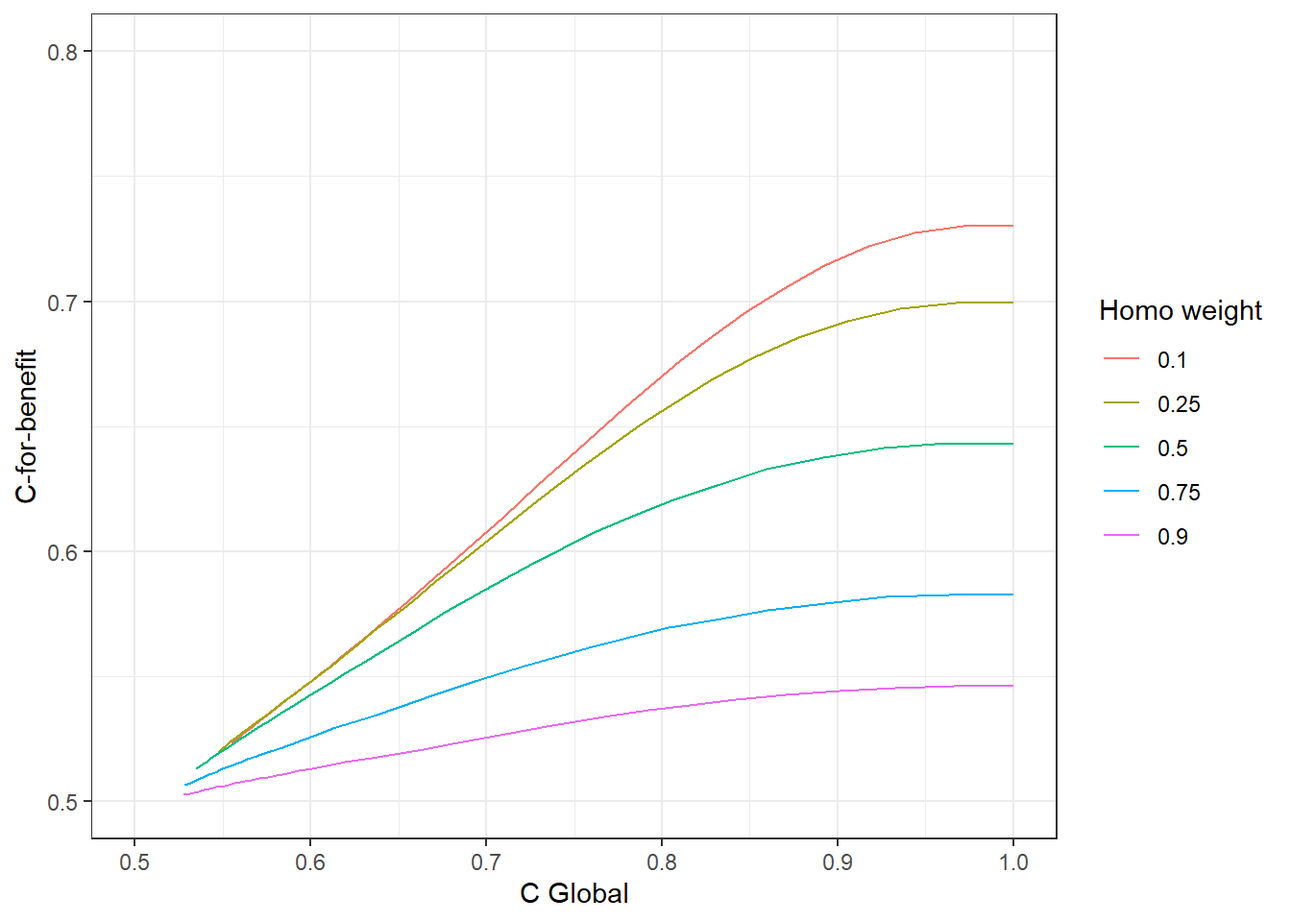
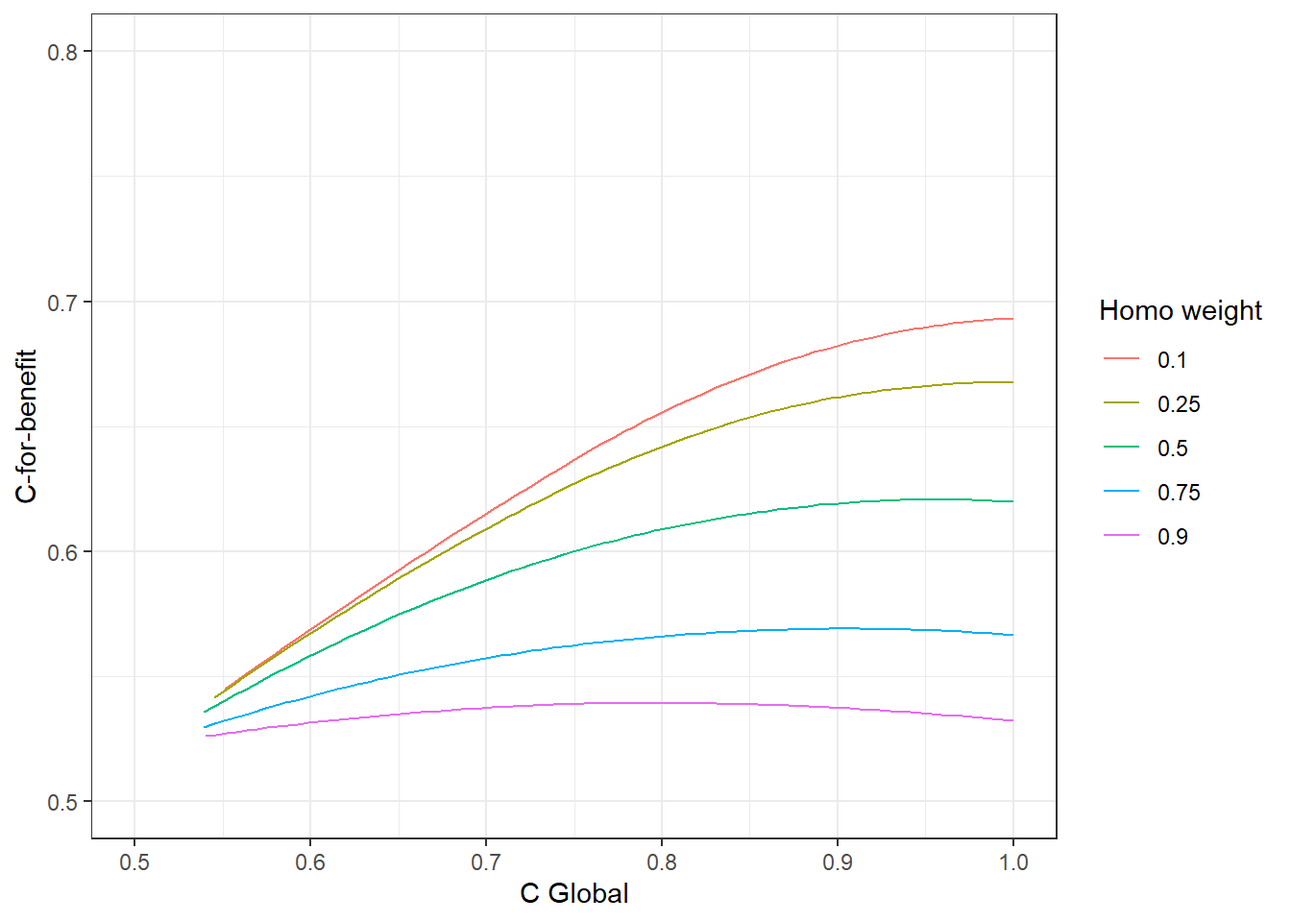
tweaks

diff --git a/_site/c4bsimulation.html b/_site/c4bsimulation.html
@@ -416,8 +416,8 @@ pre > code.sourceCode > span > a:first-child::before { text-decoration: underlin
     <h2 id="toc-title">On this page</h2>
    
   <ul>
-  <li><a href="#linear-model" id="toc-linear-model" class="nav-link active" data-scroll-target="#linear-model">Linear Model</a></li>
-  <li><a href="#logistic" id="toc-logistic" class="nav-link" data-scroll-target="#logistic">Logistic</a></li>
+  <li><a href="#linear-model" id="toc-linear-model" class="nav-link active" data-scroll-target="#linear-model"><em>Linear Model</em></a></li>
+  <li><a href="#logistic" id="toc-logistic" class="nav-link" data-scroll-target="#logistic"><em>Logistic</em></a></li>
   </ul>
 </nav>
     </div>
@@ -444,7 +444,7 @@ pre > code.sourceCode > span > a:first-child::before { text-decoration: underlin
 </header>
 
 
-<p>The question has arisen to what is the association between global C and</p>
+<p><em>The question has arisen to what is the association between global C and c4b. In this we simulate data both as a linear model and a logistic model and progressively add more noise until we get the desired properties</em></p>
 <div class="cell">
 <div class="code-copy-outer-scaffold"><div class="sourceCode cell-code" id="cb1"><pre class="sourceCode r code-with-copy"><code class="sourceCode r"><span id="cb1-1"><a href="#cb1-1" aria-hidden="true" tabindex="-1"></a><span class="fu">library</span>(tidyverse)</span>
 <span id="cb1-2"><a href="#cb1-2" aria-hidden="true" tabindex="-1"></a><span class="fu">library</span>(survival)</span>
@@ -482,51 +482,56 @@ pre > code.sourceCode > span > a:first-child::before { text-decoration: underlin
 <span id="cb2-7"><a href="#cb2-7" aria-hidden="true" tabindex="-1"></a>c_benefit_log<span class="ot">=</span><span class="fu">c</span>()</span>
 <span id="cb2-8"><a href="#cb2-8" aria-hidden="true" tabindex="-1"></a>error2<span class="ot">=</span><span class="fu">c</span>()</span>
 <span id="cb2-9"><a href="#cb2-9" aria-hidden="true" tabindex="-1"></a>weight2<span class="ot">=</span><span class="fu">c</span>()</span>
-<span id="cb2-10"><a href="#cb2-10" aria-hidden="true" tabindex="-1"></a></span>
-<span id="cb2-11"><a href="#cb2-11" aria-hidden="true" tabindex="-1"></a><span class="cf">for</span>(j <span class="cf">in</span> weight){</span>
-<span id="cb2-12"><a href="#cb2-12" aria-hidden="true" tabindex="-1"></a>  <span class="cf">for</span>(i <span class="cf">in</span> error){</span>
-<span id="cb2-13"><a href="#cb2-13" aria-hidden="true" tabindex="-1"></a>    </span>
-<span id="cb2-14"><a href="#cb2-14" aria-hidden="true" tabindex="-1"></a>    coefs<span class="ot">=</span><span class="fu">c</span>(<span class="dv">0</span>,<span class="fl">1.2</span><span class="sc">*</span>j,<span class="dv">1</span><span class="sc">*</span>j,<span class="dv">1</span><span class="sc">*</span>(<span class="dv">1</span><span class="sc">-</span>j),i,<span class="fl">1.2</span><span class="sc">*</span>(<span class="dv">1</span><span class="sc">-</span>j))</span>
-<span id="cb2-15"><a href="#cb2-15" aria-hidden="true" tabindex="-1"></a>    data2<span class="ot">=</span><span class="fu">linear_predictor</span>(data, formula, coefs) <span class="sc">%&gt;%</span> </span>
-<span id="cb2-16"><a href="#cb2-16" aria-hidden="true" tabindex="-1"></a>      <span class="fu">mutate</span>(<span class="at">p=</span><span class="fu">exp</span>(eta)<span class="sc">/</span>(<span class="dv">1</span><span class="sc">+</span><span class="fu">exp</span>(eta)),</span>
-<span id="cb2-17"><a href="#cb2-17" aria-hidden="true" tabindex="-1"></a>             <span class="at">rn=</span><span class="fu">row_number</span>()) <span class="sc">%&gt;%</span> </span>
-<span id="cb2-18"><a href="#cb2-18" aria-hidden="true" tabindex="-1"></a>      <span class="fu">mutate</span>(<span class="at">res=</span><span class="fu">rbinom</span>(<span class="dv">1</span>,<span class="dv">1</span>,p), <span class="at">.by=</span><span class="st">"rn"</span>)</span>
-<span id="cb2-19"><a href="#cb2-19" aria-hidden="true" tabindex="-1"></a>    mod_lm<span class="ot">=</span><span class="fu">lm</span>(eta<span class="sc">~</span>a<span class="sc">+</span>arm<span class="sc">*</span>b,data2 )</span>
-<span id="cb2-20"><a href="#cb2-20" aria-hidden="true" tabindex="-1"></a>    </span>
-<span id="cb2-21"><a href="#cb2-21" aria-hidden="true" tabindex="-1"></a>    x_lm<span class="ot">=</span>mod_lm<span class="sc">%&gt;%</span> <span class="fu">concordance</span>()</span>
-<span id="cb2-22"><a href="#cb2-22" aria-hidden="true" tabindex="-1"></a>    c_global_lm<span class="ot">=</span><span class="fu">c</span>(c_global_lm, x_lm<span class="sc">$</span>concordance)</span>
-<span id="cb2-23"><a href="#cb2-23" aria-hidden="true" tabindex="-1"></a>    </span>
-<span id="cb2-24"><a href="#cb2-24" aria-hidden="true" tabindex="-1"></a>    dm_lm<span class="ot">=</span><span class="fu">decompose_model</span>(mod_lm,<span class="at">var=</span><span class="st">"arm"</span>)</span>
-<span id="cb2-25"><a href="#cb2-25" aria-hidden="true" tabindex="-1"></a>    c_benefit_lm<span class="ot">=</span><span class="fu">c</span>(c_benefit_lm,(<span class="fu">c4b</span>(mod_lm,<span class="at">data=</span>data2, <span class="at">outcome =</span> eta, <span class="at">var=</span>arm, <span class="at">matching =</span> <span class="st">"decompose"</span>,<span class="at">method=</span><span class="st">"parametric"</span> ))<span class="sc">$</span>concordance)</span>
-<span id="cb2-26"><a href="#cb2-26" aria-hidden="true" tabindex="-1"></a>    </span>
-<span id="cb2-27"><a href="#cb2-27" aria-hidden="true" tabindex="-1"></a>    mod_log<span class="ot">=</span><span class="fu">glm</span>(res<span class="sc">~</span>a<span class="sc">+</span>arm<span class="sc">*</span>b,data2, <span class="at">family=</span><span class="st">"binomial"</span>)</span>
-<span id="cb2-28"><a href="#cb2-28" aria-hidden="true" tabindex="-1"></a>    x_log<span class="ot">=</span>mod_log<span class="sc">%&gt;%</span> <span class="fu">concordance</span>()</span>
-<span id="cb2-29"><a href="#cb2-29" aria-hidden="true" tabindex="-1"></a>    c_global_log<span class="ot">=</span><span class="fu">c</span>(c_global_log, x_log<span class="sc">$</span>concordance)</span>
-<span id="cb2-30"><a href="#cb2-30" aria-hidden="true" tabindex="-1"></a>    </span>
-<span id="cb2-31"><a href="#cb2-31" aria-hidden="true" tabindex="-1"></a>    dm_log<span class="ot">=</span><span class="fu">decompose_model</span>(mod_log,<span class="at">var=</span><span class="st">"arm"</span>)</span>
-<span id="cb2-32"><a href="#cb2-32" aria-hidden="true" tabindex="-1"></a>    c_benefit_log<span class="ot">=</span><span class="fu">c</span>(c_benefit_log,(<span class="fu">c4b</span>(mod_lm,<span class="at">data=</span>data2, <span class="at">outcome =</span> res, <span class="at">var=</span>arm, <span class="at">matching =</span> <span class="st">"decompose"</span>,<span class="at">method=</span><span class="st">"parametric"</span> ))<span class="sc">$</span>concordance)</span>
-<span id="cb2-33"><a href="#cb2-33" aria-hidden="true" tabindex="-1"></a>    </span>
-<span id="cb2-34"><a href="#cb2-34" aria-hidden="true" tabindex="-1"></a>    </span>
-<span id="cb2-35"><a href="#cb2-35" aria-hidden="true" tabindex="-1"></a>    error2<span class="ot">=</span><span class="fu">c</span>(error2, i)</span>
-<span id="cb2-36"><a href="#cb2-36" aria-hidden="true" tabindex="-1"></a>    weight2<span class="ot">=</span><span class="fu">c</span>(weight2, j)</span>
-<span id="cb2-37"><a href="#cb2-37" aria-hidden="true" tabindex="-1"></a>  }</span>
-<span id="cb2-38"><a href="#cb2-38" aria-hidden="true" tabindex="-1"></a>}</span>
-<span id="cb2-39"><a href="#cb2-39" aria-hidden="true" tabindex="-1"></a></span>
-<span id="cb2-40"><a href="#cb2-40" aria-hidden="true" tabindex="-1"></a>out<span class="ot">=</span><span class="fu">cbind.data.frame</span>(error2,weight2, c_global_lm, c_benefit_lm, c_global_log, c_benefit_log) </span></code></pre></div><button title="Copy to Clipboard" class="code-copy-button"><i class="bi"></i></button></div>
+<span id="cb2-10"><a href="#cb2-10" aria-hidden="true" tabindex="-1"></a><span class="cf">for</span>(k <span class="cf">in</span> <span class="dv">1</span><span class="sc">:</span><span class="dv">10</span>){</span>
+<span id="cb2-11"><a href="#cb2-11" aria-hidden="true" tabindex="-1"></a>  data<span class="ot">=</span><span class="fu">data.frame</span>(<span class="fu">matrix</span>(<span class="fu">rnorm</span>(<span class="dv">6000</span>), <span class="at">ncol=</span><span class="dv">3</span>)) <span class="sc">%&gt;%</span> </span>
+<span id="cb2-12"><a href="#cb2-12" aria-hidden="true" tabindex="-1"></a>  <span class="fu">mutate</span>(<span class="at">arm=</span><span class="fu">factor</span>(<span class="fu">rep</span>(<span class="fu">c</span>(<span class="st">"trt"</span>, <span class="st">"control"</span>), <span class="at">each=</span><span class="dv">1000</span>, <span class="at">times=</span><span class="dv">1</span>), <span class="at">ordered =</span> F),</span>
+<span id="cb2-13"><a href="#cb2-13" aria-hidden="true" tabindex="-1"></a>         <span class="at">out=</span><span class="dv">0</span>) <span class="sc">%&gt;%</span> </span>
+<span id="cb2-14"><a href="#cb2-14" aria-hidden="true" tabindex="-1"></a>  <span class="fu">rename</span>(<span class="st">"a"</span><span class="ot">=</span>X1, <span class="at">b=</span>X2, <span class="at">error=</span>X3)</span>
+<span id="cb2-15"><a href="#cb2-15" aria-hidden="true" tabindex="-1"></a>  <span class="cf">for</span>(j <span class="cf">in</span> weight){</span>
+<span id="cb2-16"><a href="#cb2-16" aria-hidden="true" tabindex="-1"></a>    <span class="cf">for</span>(i <span class="cf">in</span> error){</span>
+<span id="cb2-17"><a href="#cb2-17" aria-hidden="true" tabindex="-1"></a>      </span>
+<span id="cb2-18"><a href="#cb2-18" aria-hidden="true" tabindex="-1"></a>      coefs<span class="ot">=</span><span class="fu">c</span>(<span class="dv">0</span>,<span class="fl">1.2</span><span class="sc">*</span>j,<span class="dv">1</span><span class="sc">*</span>j,<span class="dv">1</span><span class="sc">*</span>(<span class="dv">1</span><span class="sc">-</span>j),i,<span class="fl">1.2</span><span class="sc">*</span>(<span class="dv">1</span><span class="sc">-</span>j))</span>
+<span id="cb2-19"><a href="#cb2-19" aria-hidden="true" tabindex="-1"></a>      data2<span class="ot">=</span><span class="fu">linear_predictor</span>(data, formula, coefs) <span class="sc">%&gt;%</span> </span>
+<span id="cb2-20"><a href="#cb2-20" aria-hidden="true" tabindex="-1"></a>        <span class="fu">mutate</span>(<span class="at">p=</span><span class="fu">exp</span>(eta)<span class="sc">/</span>(<span class="dv">1</span><span class="sc">+</span><span class="fu">exp</span>(eta)),</span>
+<span id="cb2-21"><a href="#cb2-21" aria-hidden="true" tabindex="-1"></a>               <span class="at">rn=</span><span class="fu">row_number</span>()) <span class="sc">%&gt;%</span> </span>
+<span id="cb2-22"><a href="#cb2-22" aria-hidden="true" tabindex="-1"></a>        <span class="fu">mutate</span>(<span class="at">res=</span><span class="fu">rbinom</span>(<span class="dv">1</span>,<span class="dv">1</span>,p), <span class="at">.by=</span><span class="st">"rn"</span>)</span>
+<span id="cb2-23"><a href="#cb2-23" aria-hidden="true" tabindex="-1"></a>      mod_lm<span class="ot">=</span><span class="fu">lm</span>(eta<span class="sc">~</span>a<span class="sc">+</span>arm<span class="sc">*</span>b,data2 )</span>
+<span id="cb2-24"><a href="#cb2-24" aria-hidden="true" tabindex="-1"></a>      </span>
+<span id="cb2-25"><a href="#cb2-25" aria-hidden="true" tabindex="-1"></a>      x_lm<span class="ot">=</span>mod_lm<span class="sc">%&gt;%</span> <span class="fu">concordance</span>()</span>
+<span id="cb2-26"><a href="#cb2-26" aria-hidden="true" tabindex="-1"></a>      c_global_lm<span class="ot">=</span><span class="fu">c</span>(c_global_lm, x_lm<span class="sc">$</span>concordance)</span>
+<span id="cb2-27"><a href="#cb2-27" aria-hidden="true" tabindex="-1"></a>      </span>
+<span id="cb2-28"><a href="#cb2-28" aria-hidden="true" tabindex="-1"></a>      dm_lm<span class="ot">=</span><span class="fu">decompose_model</span>(mod_lm,<span class="at">var=</span><span class="st">"arm"</span>)</span>
+<span id="cb2-29"><a href="#cb2-29" aria-hidden="true" tabindex="-1"></a>      c_benefit_lm<span class="ot">=</span><span class="fu">c</span>(c_benefit_lm,(<span class="fu">c4b</span>(mod_lm,<span class="at">data=</span>data2, <span class="at">outcome =</span> eta, <span class="at">var=</span>arm, <span class="at">matching =</span> <span class="st">"decompose"</span>,<span class="at">method=</span><span class="st">"parametric"</span> ))<span class="sc">$</span>concordance)</span>
+<span id="cb2-30"><a href="#cb2-30" aria-hidden="true" tabindex="-1"></a>      </span>
+<span id="cb2-31"><a href="#cb2-31" aria-hidden="true" tabindex="-1"></a>      mod_log<span class="ot">=</span><span class="fu">glm</span>(res<span class="sc">~</span>a<span class="sc">+</span>arm<span class="sc">*</span>b,data2, <span class="at">family=</span><span class="st">"binomial"</span>)</span>
+<span id="cb2-32"><a href="#cb2-32" aria-hidden="true" tabindex="-1"></a>      x_log<span class="ot">=</span>mod_log<span class="sc">%&gt;%</span> <span class="fu">concordance</span>()</span>
+<span id="cb2-33"><a href="#cb2-33" aria-hidden="true" tabindex="-1"></a>      c_global_log<span class="ot">=</span><span class="fu">c</span>(c_global_log, x_log<span class="sc">$</span>concordance)</span>
+<span id="cb2-34"><a href="#cb2-34" aria-hidden="true" tabindex="-1"></a>      </span>
+<span id="cb2-35"><a href="#cb2-35" aria-hidden="true" tabindex="-1"></a>      dm_log<span class="ot">=</span><span class="fu">decompose_model</span>(mod_log,<span class="at">var=</span><span class="st">"arm"</span>)</span>
+<span id="cb2-36"><a href="#cb2-36" aria-hidden="true" tabindex="-1"></a>      c_benefit_log<span class="ot">=</span><span class="fu">c</span>(c_benefit_log,(<span class="fu">c4b</span>(mod_lm,<span class="at">data=</span>data2, <span class="at">outcome =</span> res, <span class="at">var=</span>arm, <span class="at">matching =</span> <span class="st">"decompose"</span>,<span class="at">method=</span><span class="st">"parametric"</span> ))<span class="sc">$</span>concordance)</span>
+<span id="cb2-37"><a href="#cb2-37" aria-hidden="true" tabindex="-1"></a>      </span>
+<span id="cb2-38"><a href="#cb2-38" aria-hidden="true" tabindex="-1"></a>      </span>
+<span id="cb2-39"><a href="#cb2-39" aria-hidden="true" tabindex="-1"></a>      error2<span class="ot">=</span><span class="fu">c</span>(error2, i)</span>
+<span id="cb2-40"><a href="#cb2-40" aria-hidden="true" tabindex="-1"></a>      weight2<span class="ot">=</span><span class="fu">c</span>(weight2, j)</span>
+<span id="cb2-41"><a href="#cb2-41" aria-hidden="true" tabindex="-1"></a>    }</span>
+<span id="cb2-42"><a href="#cb2-42" aria-hidden="true" tabindex="-1"></a>  }</span>
+<span id="cb2-43"><a href="#cb2-43" aria-hidden="true" tabindex="-1"></a>}</span>
+<span id="cb2-44"><a href="#cb2-44" aria-hidden="true" tabindex="-1"></a>out<span class="ot">=</span><span class="fu">cbind.data.frame</span>(error2,weight2, c_global_lm, c_benefit_lm, c_global_log, c_benefit_log) </span></code></pre></div><button title="Copy to Clipboard" class="code-copy-button"><i class="bi"></i></button></div>
 </div>
 <section id="linear-model" class="level2">
-<h2 class="anchored" data-anchor-id="linear-model">Linear Model</h2>
+<h2 class="anchored" data-anchor-id="linear-model"><em>Linear Model</em></h2>
 <div class="cell">
 <div class="code-copy-outer-scaffold"><div class="sourceCode cell-code" id="cb3"><pre class="sourceCode r code-with-copy"><code class="sourceCode r"><span id="cb3-1"><a href="#cb3-1" aria-hidden="true" tabindex="-1"></a>out<span class="sc">%&gt;%</span> </span>
 <span id="cb3-2"><a href="#cb3-2" aria-hidden="true" tabindex="-1"></a>  <span class="fu">mutate</span>(<span class="at">weight2=</span><span class="fu">factor</span>(weight2)) <span class="sc">%&gt;%</span> </span>
 <span id="cb3-3"><a href="#cb3-3" aria-hidden="true" tabindex="-1"></a>  <span class="fu">ggplot</span>(<span class="fu">aes</span>(<span class="at">x=</span>c_global_lm, <span class="at">y=</span>c_benefit_lm, <span class="at">col=</span>weight2))<span class="sc">+</span></span>
-<span id="cb3-4"><a href="#cb3-4" aria-hidden="true" tabindex="-1"></a>  <span class="fu">geom_line</span>()<span class="sc">+</span></span>
-<span id="cb3-5"><a href="#cb3-5" aria-hidden="true" tabindex="-1"></a>  <span class="fu">lims</span>(<span class="at">x=</span><span class="fu">c</span>(<span class="fl">0.5</span>,<span class="dv">1</span>),</span>
-<span id="cb3-6"><a href="#cb3-6" aria-hidden="true" tabindex="-1"></a>       <span class="at">y=</span><span class="fu">c</span>(<span class="fl">0.5</span>,.<span class="dv">8</span>))<span class="sc">+</span></span>
-<span id="cb3-7"><a href="#cb3-7" aria-hidden="true" tabindex="-1"></a>  <span class="fu">labs</span>(<span class="at">x=</span><span class="st">"C Global"</span>,</span>
-<span id="cb3-8"><a href="#cb3-8" aria-hidden="true" tabindex="-1"></a>       <span class="at">y=</span><span class="st">"C-for-benefit"</span>,</span>
-<span id="cb3-9"><a href="#cb3-9" aria-hidden="true" tabindex="-1"></a>       <span class="at">col=</span><span class="st">"Homo weight"</span>)<span class="sc">+</span></span>
-<span id="cb3-10"><a href="#cb3-10" aria-hidden="true" tabindex="-1"></a>  <span class="fu">theme_bw</span>()</span></code></pre></div><button title="Copy to Clipboard" class="code-copy-button"><i class="bi"></i></button></div>
+<span id="cb3-4"><a href="#cb3-4" aria-hidden="true" tabindex="-1"></a>  <span class="fu">geom_smooth</span>(<span class="at">se=</span>F, <span class="at">linewidth=</span>.<span class="dv">5</span>)<span class="sc">+</span></span>
+<span id="cb3-5"><a href="#cb3-5" aria-hidden="true" tabindex="-1"></a>  <span class="co"># geom_point()+</span></span>
+<span id="cb3-6"><a href="#cb3-6" aria-hidden="true" tabindex="-1"></a>  <span class="fu">lims</span>(<span class="at">x=</span><span class="fu">c</span>(<span class="fl">0.5</span>,<span class="dv">1</span>),</span>
+<span id="cb3-7"><a href="#cb3-7" aria-hidden="true" tabindex="-1"></a>       <span class="at">y=</span><span class="fu">c</span>(<span class="fl">0.5</span>,.<span class="dv">8</span>))<span class="sc">+</span></span>
+<span id="cb3-8"><a href="#cb3-8" aria-hidden="true" tabindex="-1"></a>  <span class="fu">labs</span>(<span class="at">x=</span><span class="st">"C Global"</span>,</span>
+<span id="cb3-9"><a href="#cb3-9" aria-hidden="true" tabindex="-1"></a>       <span class="at">y=</span><span class="st">"C-for-benefit"</span>,</span>
+<span id="cb3-10"><a href="#cb3-10" aria-hidden="true" tabindex="-1"></a>       <span class="at">col=</span><span class="st">"Homo weight"</span>)<span class="sc">+</span></span>
+<span id="cb3-11"><a href="#cb3-11" aria-hidden="true" tabindex="-1"></a>  <span class="fu">theme_bw</span>()</span></code></pre></div><button title="Copy to Clipboard" class="code-copy-button"><i class="bi"></i></button></div>
 <div class="cell-output-display">
 <div>
 <figure class="figure">
@@ -537,18 +542,20 @@ pre > code.sourceCode > span > a:first-child::before { text-decoration: underlin
 </div>
 </section>
 <section id="logistic" class="level2">
-<h2 class="anchored" data-anchor-id="logistic">Logistic</h2>
+<h2 class="anchored" data-anchor-id="logistic"><em>Logistic</em></h2>
 <div class="cell">
 <div class="code-copy-outer-scaffold"><div class="sourceCode cell-code" id="cb4"><pre class="sourceCode r code-with-copy"><code class="sourceCode r"><span id="cb4-1"><a href="#cb4-1" aria-hidden="true" tabindex="-1"></a>out<span class="sc">%&gt;%</span> </span>
 <span id="cb4-2"><a href="#cb4-2" aria-hidden="true" tabindex="-1"></a>  <span class="fu">mutate</span>(<span class="at">weight2=</span><span class="fu">factor</span>(weight2)) <span class="sc">%&gt;%</span> </span>
 <span id="cb4-3"><a href="#cb4-3" aria-hidden="true" tabindex="-1"></a>  <span class="fu">ggplot</span>(<span class="fu">aes</span>(<span class="at">x=</span>c_global_log, <span class="at">y=</span>c_benefit_log, <span class="at">col=</span>weight2))<span class="sc">+</span></span>
-<span id="cb4-4"><a href="#cb4-4" aria-hidden="true" tabindex="-1"></a>  <span class="fu">geom_line</span>()<span class="sc">+</span></span>
-<span id="cb4-5"><a href="#cb4-5" aria-hidden="true" tabindex="-1"></a>  <span class="fu">lims</span>(<span class="at">x=</span><span class="fu">c</span>(<span class="fl">0.5</span>,.<span class="dv">8</span>),</span>
-<span id="cb4-6"><a href="#cb4-6" aria-hidden="true" tabindex="-1"></a>       <span class="at">y=</span><span class="fu">c</span>(<span class="fl">0.5</span>,.<span class="dv">65</span>))<span class="sc">+</span></span>
-<span id="cb4-7"><a href="#cb4-7" aria-hidden="true" tabindex="-1"></a>  <span class="fu">labs</span>(<span class="at">x=</span><span class="st">"C Global"</span>,</span>
-<span id="cb4-8"><a href="#cb4-8" aria-hidden="true" tabindex="-1"></a>       <span class="at">y=</span><span class="st">"C-for-benefit"</span>,</span>
-<span id="cb4-9"><a href="#cb4-9" aria-hidden="true" tabindex="-1"></a>       <span class="at">col=</span><span class="st">"Homo weight"</span>)<span class="sc">+</span></span>
-<span id="cb4-10"><a href="#cb4-10" aria-hidden="true" tabindex="-1"></a>  <span class="fu">theme_bw</span>()</span></code></pre></div><button title="Copy to Clipboard" class="code-copy-button"><i class="bi"></i></button></div>
+<span id="cb4-4"><a href="#cb4-4" aria-hidden="true" tabindex="-1"></a>  <span class="fu">geom_smooth</span>(<span class="at">se=</span>F, <span class="at">linewidth=</span><span class="fl">0.5</span>)<span class="sc">+</span></span>
+<span id="cb4-5"><a href="#cb4-5" aria-hidden="true" tabindex="-1"></a>  <span class="co"># geom_point()+</span></span>
+<span id="cb4-6"><a href="#cb4-6" aria-hidden="true" tabindex="-1"></a>  <span class="fu">lims</span>(<span class="at">x=</span><span class="fu">c</span>(<span class="fl">0.5</span>,.<span class="dv">8</span>),</span>
+<span id="cb4-7"><a href="#cb4-7" aria-hidden="true" tabindex="-1"></a>       <span class="co"># y=c(0.5,.55)</span></span>
+<span id="cb4-8"><a href="#cb4-8" aria-hidden="true" tabindex="-1"></a>       )<span class="sc">+</span></span>
+<span id="cb4-9"><a href="#cb4-9" aria-hidden="true" tabindex="-1"></a>  <span class="fu">labs</span>(<span class="at">x=</span><span class="st">"C Global"</span>,</span>
+<span id="cb4-10"><a href="#cb4-10" aria-hidden="true" tabindex="-1"></a>       <span class="at">y=</span><span class="st">"C-for-benefit"</span>,</span>
+<span id="cb4-11"><a href="#cb4-11" aria-hidden="true" tabindex="-1"></a>       <span class="at">col=</span><span class="st">"Homo weight"</span>)<span class="sc">+</span></span>
+<span id="cb4-12"><a href="#cb4-12" aria-hidden="true" tabindex="-1"></a>  <span class="fu">theme_bw</span>()</span></code></pre></div><button title="Copy to Clipboard" class="code-copy-button"><i class="bi"></i></button></div>
 <div class="cell-output-display">
 <div>
 <figure class="figure">
@@ -557,6 +564,7 @@ pre > code.sourceCode > span > a:first-child::before { text-decoration: underlin
 </div>
 </div>
 </div>
+<p>Even with a reasonable Global C, then the C4B stays quite small until you make your way up to very high global C, even then it is much smaller . I would question how useful of a measure C4B is given that it is really compressed and even when there is substantial</p>
 
 
 </section>
@@ -648,7 +656,7 @@ pre > code.sourceCode > span > a:first-child::before { text-decoration: underlin
     }
       var localhostRegex = new RegExp(/^(?:http|https):\/\/localhost\:?[0-9]*\//);
       var mailtoRegex = new RegExp(/^mailto:/);
-        var filterRegex = new RegExp("https:\/\/notebook\.sebbate\.uk");
+        var filterRegex = new RegExp('/' + window.location.host + '/');
       var isInternal = (href) => {
           return filterRegex.test(href) || localhostRegex.test(href) || mailtoRegex.test(href);
       }

diff --git a/_site/c4b.html b/_site/c4b.html
@@ -1024,7 +1024,7 @@ Smit, J.M. <em>et al.</em> (2025) <span>“Predicting benefit from adjuvant ther
     }
       var localhostRegex = new RegExp(/^(?:http|https):\/\/localhost\:?[0-9]*\//);
       var mailtoRegex = new RegExp(/^mailto:/);
-        var filterRegex = new RegExp("https:\/\/notebook\.sebbate\.uk");
+        var filterRegex = new RegExp('/' + window.location.host + '/');
       var isInternal = (href) => {
           return filterRegex.test(href) || localhostRegex.test(href) || mailtoRegex.test(href);
       }

diff --git a/_site/c4bwild.html b/_site/c4bwild.html
@@ -841,7 +841,7 @@ Winkel, J. de <em>et al.</em> (2024) <span>“Personalized decision-making for a
     }
       var localhostRegex = new RegExp(/^(?:http|https):\/\/localhost\:?[0-9]*\//);
       var mailtoRegex = new RegExp(/^mailto:/);
-        var filterRegex = new RegExp("https:\/\/notebook\.sebbate\.uk");
+        var filterRegex = new RegExp('/' + window.location.host + '/');
       var isInternal = (href) => {
           return filterRegex.test(href) || localhostRegex.test(href) || mailtoRegex.test(href);
       }

diff --git a/_site/helper_functions.html b/_site/helper_functions.html
@@ -666,7 +666,7 @@ pre > code.sourceCode > span > a:first-child::before { text-decoration: underlin
     }
       var localhostRegex = new RegExp(/^(?:http|https):\/\/localhost\:?[0-9]*\//);
       var mailtoRegex = new RegExp(/^mailto:/);
-        var filterRegex = new RegExp("https:\/\/notebook\.sebbate\.uk");
+        var filterRegex = new RegExp('/' + window.location.host + '/');
       var isInternal = (href) => {
           return filterRegex.test(href) || localhostRegex.test(href) || mailtoRegex.test(href);
       }

diff --git a/_site/submodels.html b/_site/submodels.html
@@ -829,7 +829,7 @@ Residual Deviance: 685.3    AIC: 1540</code></pre>
     }
       var localhostRegex = new RegExp(/^(?:http|https):\/\/localhost\:?[0-9]*\//);
       var mailtoRegex = new RegExp(/^mailto:/);
-        var filterRegex = new RegExp("https:\/\/notebook\.sebbate\.uk");
+        var filterRegex = new RegExp('/' + window.location.host + '/');
       var isInternal = (href) => {
           return filterRegex.test(href) || localhostRegex.test(href) || mailtoRegex.test(href);
       }

diff --git a/_site/ri.html b/_site/ri.html
@@ -833,7 +833,7 @@ div.csl-indent {
     }
       var localhostRegex = new RegExp(/^(?:http|https):\/\/localhost\:?[0-9]*\//);
       var mailtoRegex = new RegExp(/^mailto:/);
-        var filterRegex = new RegExp("https:\/\/notebook\.sebbate\.uk");
+        var filterRegex = new RegExp('/' + window.location.host + '/');
       var isInternal = (href) => {
           return filterRegex.test(href) || localhostRegex.test(href) || mailtoRegex.test(href);
       }
